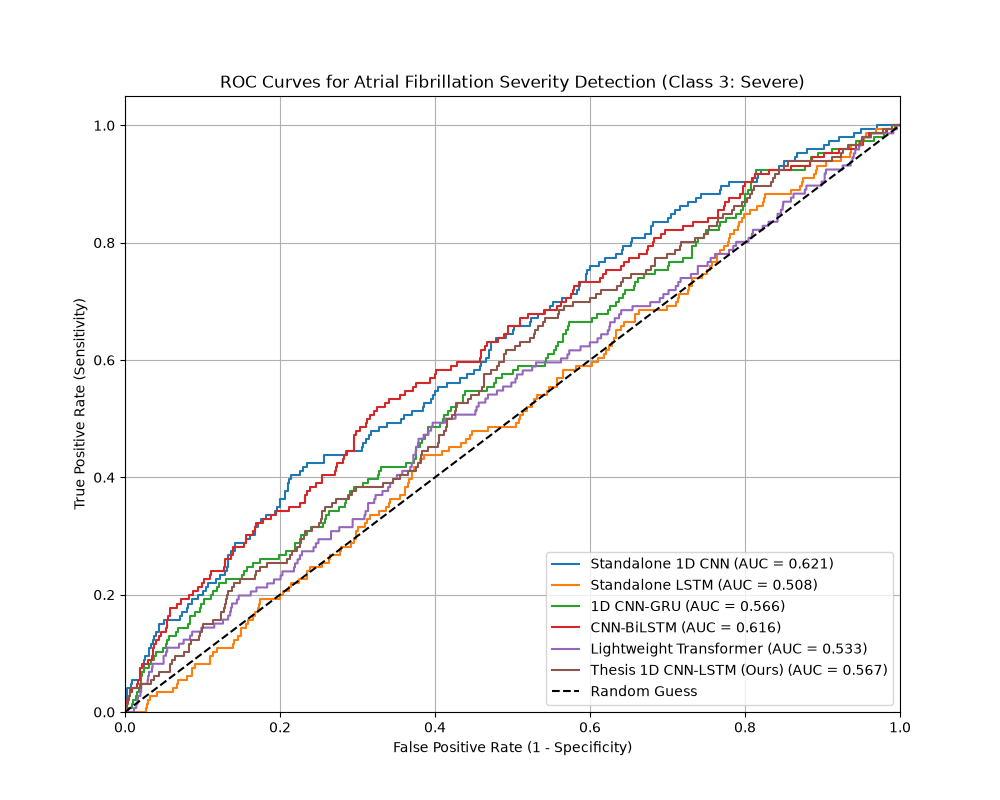
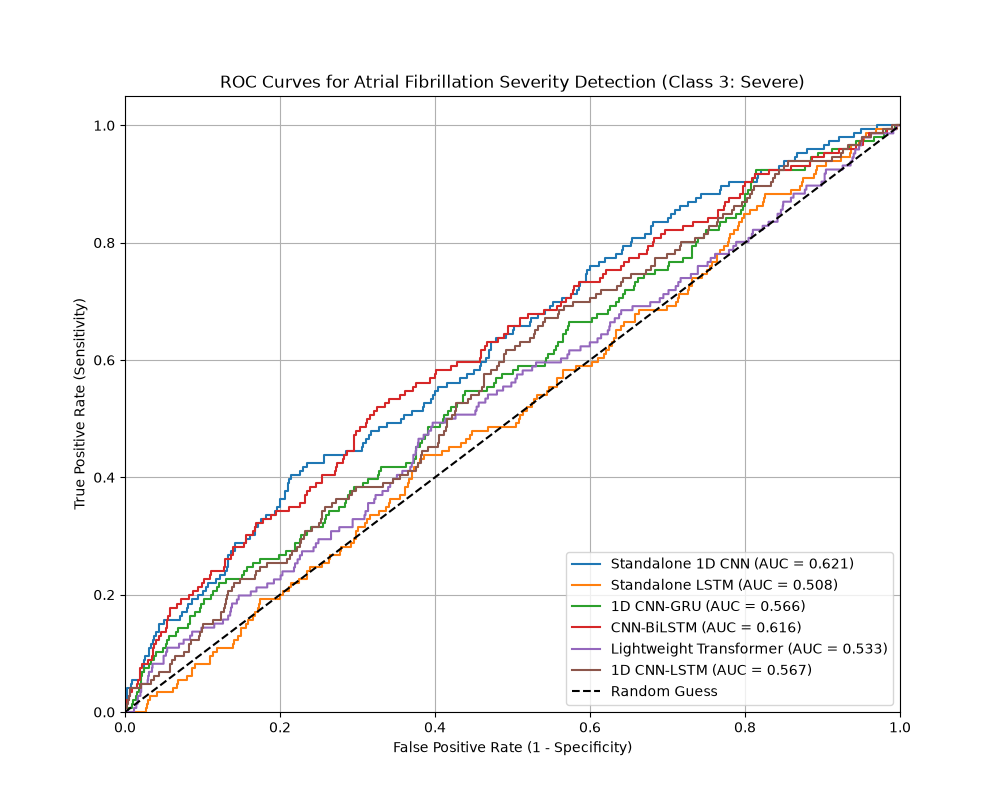
fixed model colors

Changed region(s): [[0.558, 0.6875, 0.899, 0.875]]

diff --git a/comparison_models/benchmark.py b/comparison_models/benchmark.py
@@ -113,7 +113,7 @@ def main():
         ("1D CNN-GRU", CNN_GRU, "hybrid_gru.pth"),
         ("CNN-BiLSTM", CNN_BiLSTM, "hybrid_bilstm.pth"),
         ("Lightweight Transformer", ECGTransformer, "baseline_transformer.pth"),
-        ("Thesis 1D CNN-LSTM (Ours)", AFCNN_LSTM, "../afib_cnn_lstm_v1.pt")
+        ("1D CNN-LSTM", AFCNN_LSTM, "../afib_cnn_lstm_v1.pt")
     ]
 
     results = {}
@@ -124,7 +124,7 @@ def main():
         weights_path = os.path.join(os.path.dirname(os.path.abspath(__file__)), weights_file)
         if not os.path.exists(weights_path):
             # Fallback checks for Thesis Model weights
-            if name == "Thesis 1D CNN-LSTM (Ours)":
+            if name == "1D CNN-LSTM":
                 weights_path = os.path.abspath(os.path.join(os.path.dirname(__file__), "../afib_cnn_lstm_v1.pt"))
                 if not os.path.exists(weights_path):
                     weights_path = os.path.abspath(os.path.join(os.path.dirname(__file__), "../ml_pipeline/afib_cnn_lstm_v1.pt"))
@@ -180,7 +180,12 @@ def main():
     print(f"{'Model Architecture':<30} | {'Accuracy':<8} | {'Precision':<9} | {'Recall':<8} | {'F1-Score':<8} | {'ROC-AUC':<8}")
     print("-"*95)
     for name, metrics in results.items():
-        print(f"{name:<30} | {metrics['Accuracy']*100:6.2f}% | {metrics['Precision']*100:7.2f}% | {metrics['Recall']*100:6.2f}% | {metrics['F1-Score']*100:6.2f}% | {metrics['ROC-AUC']:6.4f}")
+        row_str = f"{name:<30} | {metrics['Accuracy']*100:6.2f}% | {metrics['Precision']*100:7.2f}% | {metrics['Recall']*100:6.2f}% | {metrics['F1-Score']*100:6.2f}% | {metrics['ROC-AUC']:6.4f}"
+        if name == "1D CNN-LSTM":
+            # Highlight our model row in green using ANSI escape codes
+            print(f"\033[92m{row_str}\033[0m")
+        else:
+            print(row_str)
     print("="*95 + "\n")
 
     # Save benchmarking results to JSON